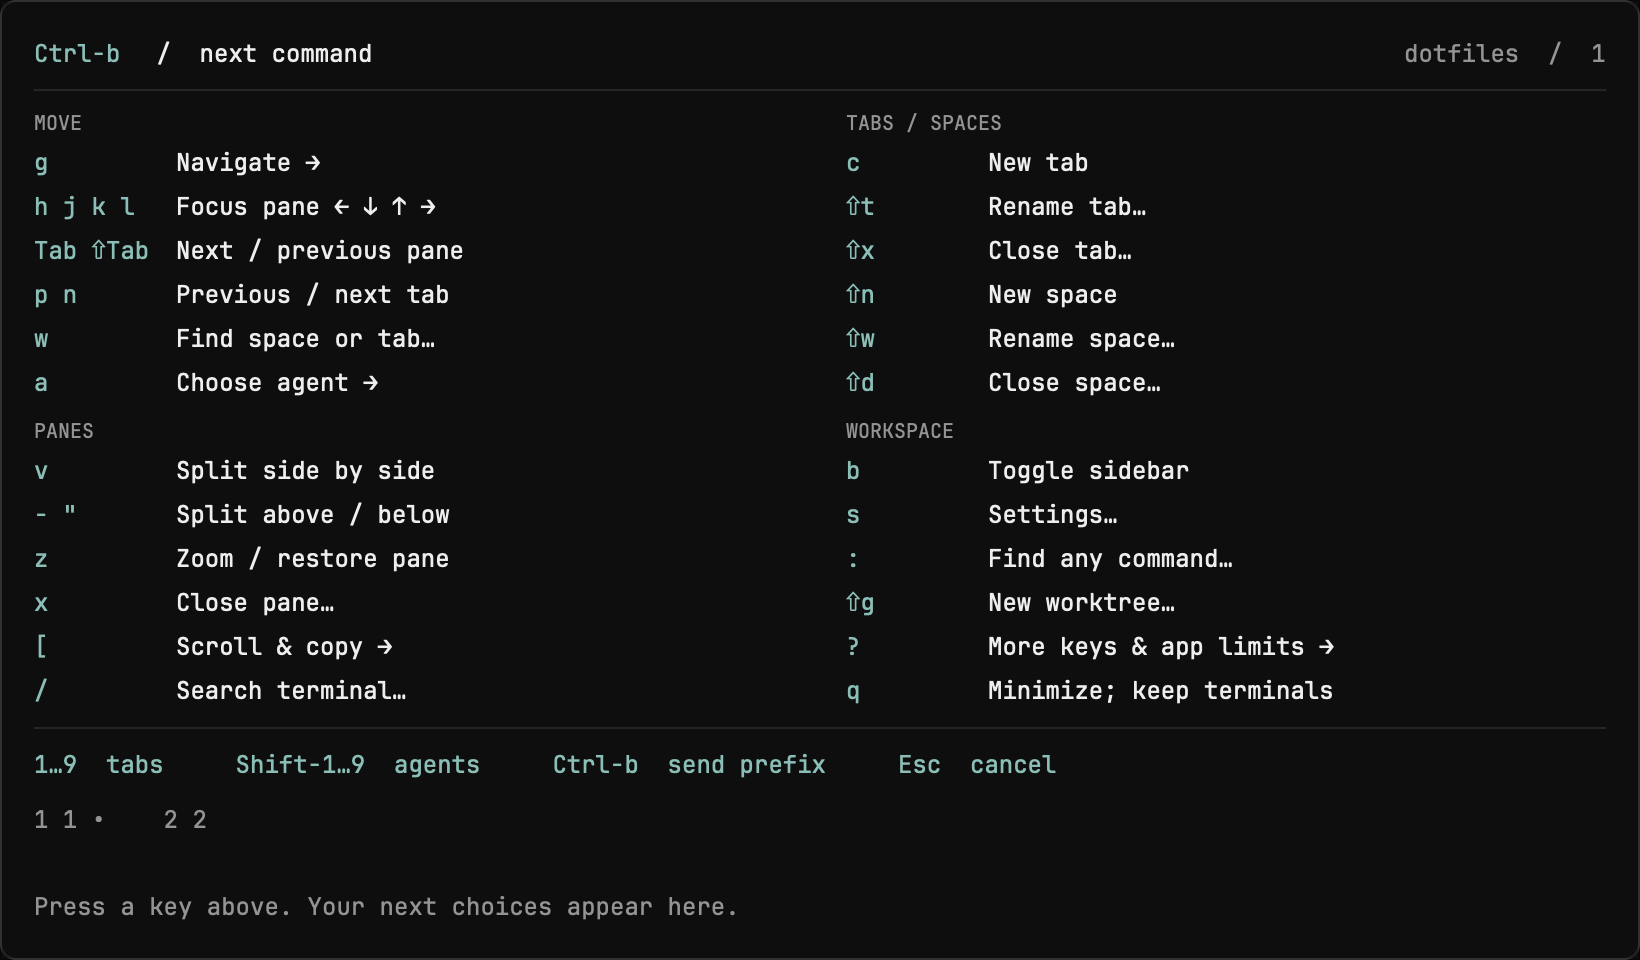
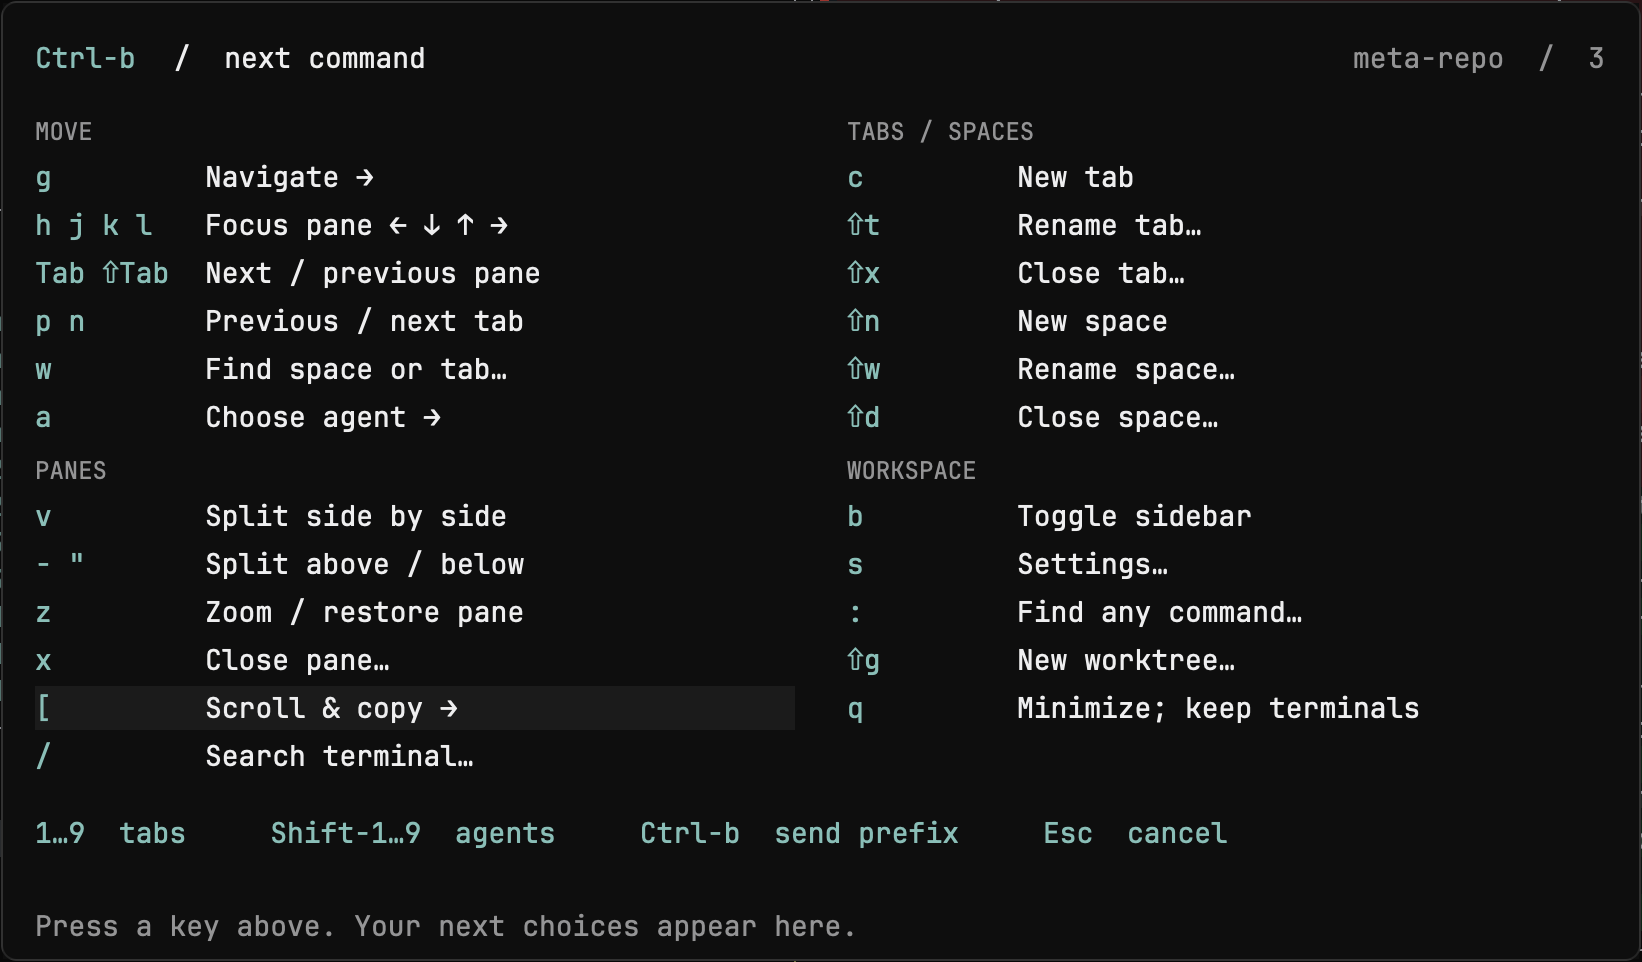
Enlarge the keyboard guide and simplify command search

diff --git a/herdr-app/mods/keyboard-guide/main.js b/herdr-app/mods/keyboard-guide/main.js
@@ -54,7 +54,6 @@ const ROOT = [
     action("s", "Settings…", "app.settings"),
     mode(":", "Find any command…", "commands"),
     action("shift-g", "New worktree…", "worktree", {}, "space"),
-    mode("?", "More keys & app limits →", "help"),
     action("q", "Minimize; keep terminals", "window.minimize")]],
 ];
 
@@ -116,6 +115,8 @@ function guideCatalogue(rootGroups, snapshot) {
       add({ ...base, key: row.keys?.[0] });
     }
   }
+  add({ mode: "help", group: "Guide", label: "More keys & app limits",
+    words: "help keyboard shortcuts" });
 
   // The shipped palette's additional public actions. Prefix actions above are
   // deliberately not redefined here. Missing installed commands never appear.
@@ -623,9 +624,9 @@ export default class KeyboardGuide extends View {
 
   row(row, t, cx, id) {
     const enabled = this.available(row);
-    return h_flex().id(id).h(20).gap(9).items_center().cursor_pointer()
+    return h_flex().id(id).h(22).gap(9).items_center().cursor_pointer()
       .hover(s => s.bg(t.hover)).on_click((_e, cx) => this.runAction(row, row.keys[0], cx))
-      .child(div().w(62).flex_none().text_color(enabled ? t.accent : t.dim)
+      .child(div().w(76).flex_none().text_color(enabled ? t.accent : t.dim)
         .child(row.keys.map(k => this.keyLabel(k)).join(" ")))
       .child(div().text_color(enabled ? t.foreground : t.dim).truncate().child(row.label));
   }
@@ -637,7 +638,7 @@ export default class KeyboardGuide extends View {
     const tab = space?.tabs.find(tab => tab.id === f?.tab);
     const root = v_flex().id("keyboard-guide").track_focus(this.handle)
       .on_key_down((e, cx) => this.key(e, cx)).size_full().p(16).gap(8)
-      .bg(t.background).text_color(t.foreground).text_size(12);
+      .bg(t.background).text_color(t.foreground).text_size(14);
     root.child(h_flex().items_center().justify_between()
       .child(h_flex().gap(10).child(div().font_semibold().text_color(t.accent).child("Ctrl-b"))
         .child(div().child(this.mode === "root" ? " /  next command" : ` /  ${this.mode}`)))
@@ -654,8 +655,8 @@ export default class KeyboardGuide extends View {
           .bg(start + i === this.at ? t.selected : t.background).hover(s => s.bg(t.hover))
           .cursor_pointer().on_click((_e, cx) => this.chooseSearch(cx, entry))
           .child(div().flex_1().min_w(0).truncate().text_color(this.available(entry) ? t.foreground : t.dim).child(entry.label))
-          .child(div().text_color(t.muted).text_size(10).child(entry.group))
-          .child(div().text_color(t.accent).text_size(11).child(entry.keys?.length ? `Ctrl-b ${entry.keys.map(k => this.keyLabel(k)).join(" / ")}` : "")) )));
+          .child(div().text_color(t.muted).text_size(12).child(entry.group))
+          .child(div().text_color(t.accent).text_size(13).child(entry.keys?.length ? `Ctrl-b ${entry.keys.map(k => this.keyLabel(k)).join(" / ")}` : "")) )));
       if (!rows.length) root.child(div().text_color(t.muted).child("No matching commands or places."));
       root.child(div().text_color(t.muted).child(`↑ / ↓ choose · Enter runs · Ctrl-b returns · Esc closes · ${rows.length} matches`));
     } else if (this.mode === "copy") {
@@ -685,10 +686,10 @@ export default class KeyboardGuide extends View {
       root.child(div().child("[ / ]  previous / next agent    1…9  choose tab & return"));
       root.child(div().text_color(t.accent).child("Enter  finish     Backspace  all commands     Esc  leave"));
     } else {
-      root.child(h_flex().gap(26).children([ROOT.slice(0, 2), ROOT.slice(2)].map((groups, col) =>
+      root.child(h_flex().gap(26).items_start().children([ROOT.slice(0, 2), ROOT.slice(2)].map((groups, col) =>
         v_flex().flex_1().min_w(0).gap(6).children(groups.map(([title, rows], group) =>
           v_flex().gap(2)
-            .child(div().text_size(10).text_color(t.muted).child(title))
+            .child(div().text_size(12).text_color(t.muted).child(title))
             .children(rows.map((row, i) => this.row(row, t, cx, `action-${col}-${group}-${i}`))))))));
       const tabs = space?.tabs.filter(t => !t.settled).slice(0, 9) ?? [];
       root.child(div().h(1).bg(t.border));

diff --git a/tests/fixtures/herdr-keyboard/native/lifecycle.rs b/tests/fixtures/herdr-keyboard/native/lifecycle.rs
@@ -236,7 +236,7 @@ fn personal_keyboard_events(cx: &mut gpui::TestAppContext) {
         } else {
             match scenario.as_str() {
                 "navigate_escape" => personal_keys(cx, "g"),
-                "help_escape" => personal_keys(cx, "?"),
+                "help_escape" => personal_keys(cx, ": h e l p enter"),
                 "agents_escape" => personal_keys(cx, "a"),
                 "commands_escape" => personal_keys(cx, ": a p p"),
                 "places_escape" => personal_keys(cx, "w o n e"),

diff --git a/herdr-app/mods/keyboard-guide/RECIPE.md b/herdr-app/mods/keyboard-guide/RECIPE.md
@@ -11,6 +11,7 @@ and tmux's keyboard selection flow into the app, using your own theme.
 The main dialog is 820 × 480 logical pixels, centered in the window.
 A header shows `Ctrl-b / next command` and the current space/tab.
 Two columns list Move, Panes, Tabs / Spaces, and Workspace commands.
+The main text is 14 px, with 12 px headings and 13 px search shortcuts.
 Teal keys, white labels, muted headings and thin dividers come from the
 host theme; this preview uses JetBrains Mono and a near-black background.
 The footer shows numbered tabs, cancellation keys, and feedback for an
@@ -29,9 +30,10 @@ button opens the same guide as the prefix key.
 The prefix captures the next key; unrelated input is not sent to the shell.
 Known one-shot commands close the guide and act. `g` replaces the hint list
 with persistent navigation controls, `a` lists numbered agents, `[` opens
-the smaller scroll/copy popup, and `?` explains the remaining keys and
-app limits inside the guide. `w` searches spaces and tabs; `:` searches
-commands. The header and available destinations follow live app state.
+the smaller scroll/copy popup. `w` searches spaces and tabs; `:` opens
+the commands list immediately. Search for `help` and choose **More keys &
+app limits** for the remaining keys and app limits inside the guide.
+The header and available destinations follow live app state.
 
 - **Move:** `h j k l` focus left/down/up/right. Tab and Shift-Tab cycle panes.
   In `g` mode, ↑/↓ switch spaces, `p/n` switch tabs, and `[/]` switch agents.
@@ -59,7 +61,8 @@ commands. The header and available destinations follow live app state.
   outside cancels the popup instead of leaving an unfocused strip on screen.
 - **Workspace:** `b` toggles the sidebar, `s` opens settings, `:` opens the
   guide's command search, `/` searches the terminal, and `q` minimizes the
-  window while terminal programs keep running. `?` stays in the guide's help.
+  window while terminal programs keep running. Help is available by searching
+  for `help` in the commands list.
 - **Cancel/confirm:** Escape, Ctrl-[ or Ctrl-c leaves. Backspace goes back. Closing
   a pane/tab/space captures that target and asks for Enter/y; n returns.
   Ctrl-b a second time sends a literal Ctrl-b to the focused terminal.
@@ -160,7 +163,8 @@ The dotfiles installer instead manages individual file links and backups.
 - Native `herdr-app check` passes and the running app reports no errors.
 - Ctrl-b opens the complete guide; g changes the hints; Escape returns
   typing to the original terminal. Unknown keys remain inside the guide.
-- `w`, `:` and `?` stay inside the guide. Filtering, ↑/↓ or Ctrl-p/n,
+- `:` opens commands directly; searching for `help` reaches the help
+  page. `w` searches places. All stay inside the guide. Filtering, ↑/↓ or Ctrl-p/n,
   Enter and Ctrl-b work in both searches; confirmations name their effect.
 - On a disposable tab, h/j/k/l select the expected panes; Tab cycles;
   v and - split in the named directions; x followed by n cancels closing.

diff --git a/herdr-app/README.md b/herdr-app/README.md
@@ -64,7 +64,8 @@ All keys below follow `Ctrl-b`; uppercase letters mean Shift.
 | `c`, `p/n`, `1…9` | New, previous/next, or numbered tab |
 | `a`, `Shift-1…9` | Show numbered agents; focus one directly |
 | `[`, `/` | Scroll and copy; search the terminal |
-| `w`, `:`, `?` | Search spaces/tabs, search commands, or show full help |
+| `w` | Search spaces and tabs |
+| `:` | Search commands; search for `help` to show full help |
 | `Ctrl-b` again | Send a literal Ctrl-b to the focused terminal |
 
 Numbered tabs run left to right and agents top to bottom, updating as they
